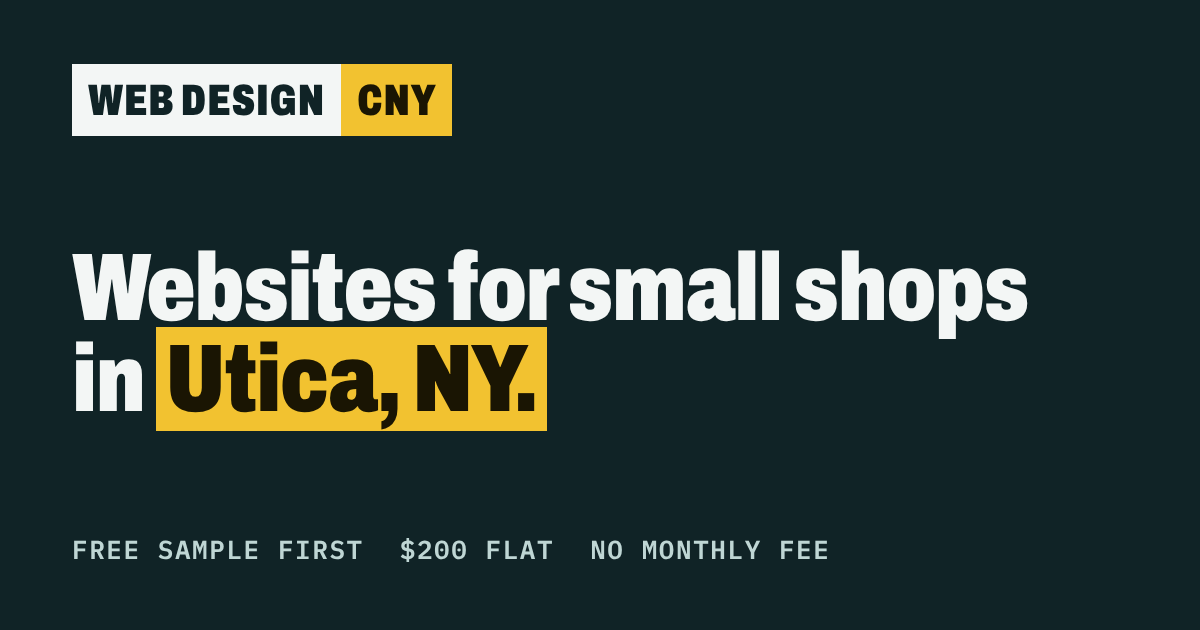
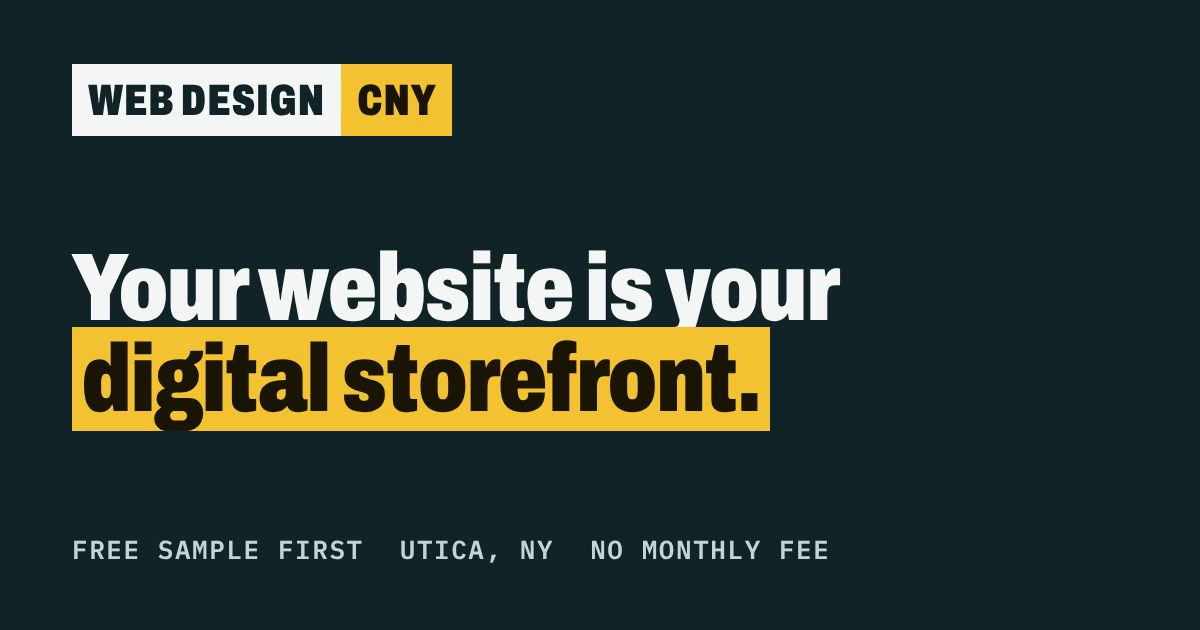
Lead with the slogan: Your website is your digital storefront
Claude-Session: https://claude.ai/code/session_01YCwx6CLGUANLD6uZCsd846

Changed region(s): [[0.0617, 0.3921, 0.8633, 0.6937], [0.3392, 0.8444, 0.4625, 0.9048]]

diff --git a/index.html b/index.html
@@ -3,14 +3,14 @@
 <head>
 <meta charset="utf-8">
 <meta name="viewport" content="width=device-width,initial-scale=1,viewport-fit=cover">
-<title>Web Design CNY · Friendly websites for small businesses in Utica, NY</title>
-<meta name="description" content="Friendly, affordable websites and graphic design for small shops and side hustles in Utica and Central New York. Free sample first, flat prices, no monthly fee.">
+<title>Web Design CNY · Your website is your digital storefront · Utica, NY</title>
+<meta name="description" content="Your website is your digital storefront. Friendly, affordable websites and graphic design for small shops and side hustles in Utica and Central New York. Free sample first, flat prices, no monthly fee.">
 <link rel="canonical" href="https://webdesigncny.com/">
 <meta property="og:type" content="website">
 <meta property="og:site_name" content="Web Design CNY">
 <meta property="og:url" content="https://webdesigncny.com/">
-<meta property="og:title" content="Web Design CNY · Friendly websites for small businesses in Utica, NY">
-<meta property="og:description" content="Friendly, affordable websites and graphic design for small shops and side hustles in Utica and Central New York. Free sample first, flat prices, no monthly fee.">
+<meta property="og:title" content="Web Design CNY · Your website is your digital storefront · Utica, NY">
+<meta property="og:description" content="Your website is your digital storefront. Friendly, affordable websites and graphic design for small shops and side hustles in Utica and Central New York. Free sample first, flat prices, no monthly fee.">
 <meta property="og:image" content="https://webdesigncny.com/og-image.png">
 <meta property="og:image:width" content="1200">
 <meta property="og:image:height" content="630">
@@ -48,8 +48,8 @@
     <div class="wrap">
       <div class="hero-copy">
         <span class="hand-note" data-i18n="home.hand">Hey neighbor!</span>
-        <h1 data-i18n="home.h1">Your shop deserves a <span class="accent">real website.</span></h1>
-        <p class="lede" data-i18n="home.lede">I'm David, from West Utica. I design bright, simple websites, flyers and cards for the delis, barbers, salons, auto shops and side hustles that make this town great. I'll make you a free sample first, so you see it before you spend a dollar.</p>
+        <h1 data-i18n="home.h1">Your website is your <span class="accent">digital storefront.</span></h1>
+        <p class="lede" data-i18n="home.lede">Before customers walk through your door, they check you out on their phone. I'm David, from West Utica, and I build bright, simple websites, flyers and cards that make your digital storefront as welcoming as the real one. I'll make you a free sample first, so you see it before you spend a dollar.</p>
         <div class="cta">
           <a class="btn btn-red" href="contact.html"><span data-i18n="c.cta">Get my free sample</span><svg width="20" height="20" viewBox="0 0 24 24" aria-hidden="true"><path d="M5 12h14M13 6l6 6-6 6" fill="none" stroke="currentColor" stroke-width="2.8" stroke-linecap="round" stroke-linejoin="round"/></svg></a>
           <a class="btn" href="services.html" data-i18n="home.seeprices">See prices</a>
@@ -65,7 +65,7 @@
           <img src="assets/showcase-960.webp" srcset="assets/showcase-960.webp 960w, assets/showcase.webp 1536w" sizes="(max-width: 1040px) 100vw, 640px" width="1536" height="1024" alt="Illustration of a Web Design CNY storefront at dusk, with giant phone screens showing example websites for a barbershop, deli, landscaper, auto shop, cleaning service and home improvement company" fetchpriority="high">
           <figcaption data-i18n="home.shot.cap">Example designs · not real businesses</figcaption>
         </figure>
-        <div class="sticker" style="top:-7%;left:-5%;--rot:-10deg;--dy:-160px;--spin:-40deg;--d:0s" aria-hidden="true"><svg width="118" height="118" viewBox="0 0 118 118"><path d="M59 4C28 4 4 27 4 56c0 27 20 44 38 44 10 0 12-8 9-14-4-8 1-15 10-15h18c20 0 35-12 35-31C114 20 90 4 59 4z" fill="#FFFDF8" stroke="#1D1A33" stroke-width="3"/><circle cx="34" cy="40" r="10" fill="#EE5236" stroke="#1D1A33" stroke-width="2.5"/><circle cx="60" cy="26" r="10" fill="#FFC23D" stroke="#1D1A33" stroke-width="2.5"/><circle cx="86" cy="36" r="10" fill="#0E8A7E" stroke="#1D1A33" stroke-width="2.5"/><circle cx="30" cy="70" r="10" fill="#6D4AA8" stroke="#1D1A33" stroke-width="2.5"/></svg></div><div class="sticker" style="top:-6%;right:-3%;--rot:8deg;--dy:-200px;--spin:90deg;--d:.7s" aria-hidden="true"><svg width="58" height="58" viewBox="0 0 58 58"><path d="M29 3l6 18 19 1-15 12 5 19-15-11-16 11 6-19L4 22l19-1z" fill="#FFC23D" stroke="#1D1A33" stroke-width="3" stroke-linejoin="round"/></svg></div><div class="sticker" style="bottom:-4%;right:4%;--rot:-12deg;--dy:-240px;--spin:-30deg;--d:1.3s" aria-hidden="true"><svg width="56" height="64" viewBox="0 0 56 64"><path d="M6 4l42 26-18 4 10 20-9 5-10-20-15 12z" fill="#EE5236" stroke="#1D1A33" stroke-width="3" stroke-linejoin="round"/></svg></div>
+        <div class="sticker" style="top:-7%;left:-5%;--rot:-10deg;--dy:-160px;--spin:-40deg;--d:0s" aria-hidden="true"><svg width="118" height="118" viewBox="0 0 118 118"><path d="M59 4C28 4 4 27 4 56c0 27 20 44 38 44 10 0 12-8 9-14-4-8 1-15 10-15h18c20 0 35-12 35-31C114 20 90 4 59 4z" fill="#FFFDF8" stroke="#1D1A33" stroke-width="3"/><circle cx="34" cy="40" r="10" fill="#EE5236" stroke="#1D1A33" stroke-width="2.5"/><circle cx="60" cy="26" r="10" fill="#FFC23D" stroke="#1D1A33" stroke-width="2.5"/><circle cx="86" cy="36" r="10" fill="#0E8A7E" stroke="#1D1A33" stroke-width="2.5"/><circle cx="30" cy="70" r="10" fill="#6D4AA8" stroke="#1D1A33" stroke-width="2.5"/></svg></div><div class="sticker" style="top:-9%;right:-4%;--rot:8deg;--dy:-200px;--spin:90deg;--d:.7s" aria-hidden="true"><svg width="120" height="104" viewBox="0 0 120 104"><path d="M60 4L22 44M60 4l38 40" stroke="#1D1A33" stroke-width="3" fill="none"/><circle cx="60" cy="6" r="5" fill="#FFC23D" stroke="#1D1A33" stroke-width="2.5"/><rect x="6" y="40" width="108" height="58" rx="12" fill="#0E8A7E" stroke="#1D1A33" stroke-width="3"/><text x="60" y="80" text-anchor="middle" font-family="Bricolage Grotesque, Arial, sans-serif" font-weight="800" font-size="30" fill="#fff" letter-spacing="2">OPEN</text></svg></div><div class="sticker" style="bottom:-4%;right:4%;--rot:-12deg;--dy:-240px;--spin:-30deg;--d:1.3s" aria-hidden="true"><svg width="56" height="64" viewBox="0 0 56 64"><path d="M6 4l42 26-18 4 10 20-9 5-10-20-15 12z" fill="#EE5236" stroke="#1D1A33" stroke-width="3" stroke-linejoin="round"/></svg></div>
       </div>
     </div>
   </section>
@@ -212,7 +212,7 @@
   <section class="bigcta band-sun edge-top">
     <div class="wrap reveal">
       <span class="hand" style="color:var(--ink)" data-i18n="cta.hand">no strings attached</span>
-      <h2 data-i18n="cta.h">Let's get your shop online.</h2>
+      <h2 data-i18n="cta.h">Let's open your digital storefront.</h2>
       <p data-i18n="cta.p">Tell me your business name. I'll make a free sample homepage and send it to you, usually within a couple of days.</p>
       <div class="cta" style="justify-content:center"><a class="btn btn-red" href="contact.html"><span data-i18n="c.cta">Get my free sample</span><svg width="20" height="20" viewBox="0 0 24 24" aria-hidden="true"><path d="M5 12h14M13 6l6 6-6 6" fill="none" stroke="currentColor" stroke-width="2.8" stroke-linecap="round" stroke-linejoin="round"/></svg></a><a class="btn" href="mailto:david@webdesigncny.com?subject=Free%20sample%20for%20my%20business">david@webdesigncny.com</a></div>
     </div>

diff --git a/assets/i18n.js b/assets/i18n.js
@@ -12,8 +12,8 @@ window.WDC_I18N = {
 "n.contact": "Contacto",
 "c.hdrcta": "Muestra gratis",
 "home.hand": "¡Hola, vecino!",
-"home.h1": "Tu negocio merece un <span class=\"accent\">sitio web de verdad.</span>",
-"home.lede": "Soy David, de West Utica. Diseño sitios web, volantes y tarjetas sencillos y llamativos para los delis, barberías, salones, talleres y emprendedores que hacen grande a esta ciudad. Primero te hago una muestra gratis, para que la veas antes de gastar un dólar.",
+"home.h1": "Tu sitio web es tu <span class=\"accent\">tienda digital.</span>",
+"home.lede": "Antes de entrar por tu puerta, los clientes te buscan en el celular. Soy David, de West Utica, y hago sitios web, volantes y tarjetas sencillos y llamativos para que tu tienda digital sea tan acogedora como la de verdad. Primero te hago una muestra gratis, para que la veas antes de gastar un dólar.",
 "c.cta": "Quiero mi muestra gratis",
 "home.seeprices": "Ver precios",
 "as.1": "Muestra gratis",
@@ -116,7 +116,7 @@ window.WDC_I18N = {
 "crew.p": "Vivo en West Utica y camino estas calles todos los días con mis dos perros, las mascotas oficiales de Web Design CNY. Pasamos por muchos negocios locales buenísimos que la gente no encuentra en internet. Quiero arreglar eso, a un precio que un negocio pequeño pueda pagar.",
 "crew.btn": "Más sobre nosotros",
 "cta.hand": "sin compromiso",
-"cta.h": "Pongamos tu negocio en internet.",
+"cta.h": "Abramos tu tienda digital.",
 "cta.p": "Dime el nombre de tu negocio. Te hago una página de muestra gratis y te la envío, normalmente en un par de días.",
 "f.areas": "Sitios web y diseño gráfico para pequeños negocios y emprendedores en Utica, West Utica, East Utica, North Utica, New Hartford, Whitesboro, Yorkville, New York Mills, Rome y todo el condado de Oneida.",
 "f.pages": "Páginas",

diff --git a/services.html b/services.html
@@ -148,7 +148,7 @@
   <section class="bigcta band-sun edge-top">
     <div class="wrap reveal">
       <span class="hand" style="color:var(--ink)" data-i18n="cta.hand">no strings attached</span>
-      <h2 data-i18n="cta.h">Let's get your shop online.</h2>
+      <h2 data-i18n="cta.h">Let's open your digital storefront.</h2>
       <p data-i18n="cta.p">Tell me your business name. I'll make a free sample homepage and send it to you, usually within a couple of days.</p>
       <div class="cta" style="justify-content:center"><a class="btn btn-red" href="contact.html"><span data-i18n="c.cta">Get my free sample</span><svg width="20" height="20" viewBox="0 0 24 24" aria-hidden="true"><path d="M5 12h14M13 6l6 6-6 6" fill="none" stroke="currentColor" stroke-width="2.8" stroke-linecap="round" stroke-linejoin="round"/></svg></a><a class="btn" href="mailto:david@webdesigncny.com?subject=Free%20sample%20for%20my%20business">david@webdesigncny.com</a></div>
     </div>

diff --git a/about.html b/about.html
@@ -93,7 +93,7 @@
   <section class="bigcta band-sun edge-top">
     <div class="wrap reveal">
       <span class="hand" style="color:var(--ink)" data-i18n="cta.hand">no strings attached</span>
-      <h2 data-i18n="cta.h">Let's get your shop online.</h2>
+      <h2 data-i18n="cta.h">Let's open your digital storefront.</h2>
       <p data-i18n="cta.p">Tell me your business name. I'll make a free sample homepage and send it to you, usually within a couple of days.</p>
       <div class="cta" style="justify-content:center"><a class="btn btn-red" href="contact.html"><span data-i18n="c.cta">Get my free sample</span><svg width="20" height="20" viewBox="0 0 24 24" aria-hidden="true"><path d="M5 12h14M13 6l6 6-6 6" fill="none" stroke="currentColor" stroke-width="2.8" stroke-linecap="round" stroke-linejoin="round"/></svg></a><a class="btn" href="mailto:david@webdesigncny.com?subject=Free%20sample%20for%20my%20business">david@webdesigncny.com</a></div>
     </div>

diff --git a/_build/build.py b/_build/build.py
@@ -110,7 +110,7 @@ def bigcta():
   <section class="bigcta band-sun edge-top">
     <div class="wrap reveal">
       <span class="hand" style="color:var(--ink)" {tk("cta.hand","no strings attached","sin compromiso")}>no strings attached</span>
-      <h2 {tk("cta.h","Let's get your shop online.","Pongamos tu negocio en internet.")}>Let's get your shop online.</h2>
+      <h2 {tk("cta.h","Let's open your digital storefront.","Abramos tu tienda digital.")}>Let's open your digital storefront.</h2>
       <p {tk("cta.p","Tell me your business name. I'll make a free sample homepage and send it to you, usually within a couple of days.","Dime el nombre de tu negocio. Te hago una página de muestra gratis y te la envío, normalmente en un par de días.")}>Tell me your business name. I'll make a free sample homepage and send it to you, usually within a couple of days.</p>
       <div class="cta" style="justify-content:center"><a class="btn btn-red" href="contact.html"><span {tk("c.cta","Get my free sample","Quiero mi muestra gratis")}>Get my free sample</span>{ARROW}</a><a class="btn" href="{MAIL}">david@webdesigncny.com</a></div>
     </div>
@@ -231,15 +231,15 @@ def home():
           <p {tk(k+".p",p_en,p_es)}>{p_en}</p>
           <div class="from"><span {tk(k+".f",price_en,price_es)}>{price_en}</span><a href="services.html" {tk("home.svc.more","See prices","Ver precios")}>See prices</a></div>
         </div>'''
-    return head("index", "Web Design CNY · Friendly websites for small businesses in Utica, NY",
-                "Friendly, affordable websites and graphic design for small shops and side hustles in Utica and Central New York. Free sample first, flat prices, no monthly fee.",
+    return head("index", "Web Design CNY · Your website is your digital storefront · Utica, NY",
+                "Your website is your digital storefront. Friendly, affordable websites and graphic design for small shops and side hustles in Utica and Central New York. Free sample first, flat prices, no monthly fee.",
                 '<script type="application/ld+json">' + json.dumps(SCHEMA) + '</script>') + header("index") + f'''
   <section class="hero">
     <div class="wrap">
       <div class="hero-copy">
         <span class="hand-note" {tk("home.hand","Hey neighbor!","¡Hola, vecino!")}>Hey neighbor!</span>
-        <h1 {tk("home.h1","Your shop deserves a <span class=\"accent\">real website.</span>","Tu negocio merece un <span class=\"accent\">sitio web de verdad.</span>")}>Your shop deserves a <span class="accent">real website.</span></h1>
-        <p class="lede" {tk("home.lede","I'm David, from West Utica. I design bright, simple websites, flyers and cards for the delis, barbers, salons, auto shops and side hustles that make this town great. I'll make you a free sample first, so you see it before you spend a dollar.","Soy David, de West Utica. Diseño sitios web, volantes y tarjetas sencillos y llamativos para los delis, barberías, salones, talleres y emprendedores que hacen grande a esta ciudad. Primero te hago una muestra gratis, para que la veas antes de gastar un dólar.")}>I'm David, from West Utica. I design bright, simple websites, flyers and cards for the delis, barbers, salons, auto shops and side hustles that make this town great. I'll make you a free sample first, so you see it before you spend a dollar.</p>
+        <h1 {tk("home.h1","Your website is your <span class=\"accent\">digital storefront.</span>","Tu sitio web es tu <span class=\"accent\">tienda digital.</span>")}>Your website is your <span class="accent">digital storefront.</span></h1>
+        <p class="lede" {tk("home.lede","Before customers walk through your door, they check you out on their phone. I'm David, from West Utica, and I build bright, simple websites, flyers and cards that make your digital storefront as welcoming as the real one. I'll make you a free sample first, so you see it before you spend a dollar.","Antes de entrar por tu puerta, los clientes te buscan en el celular. Soy David, de West Utica, y hago sitios web, volantes y tarjetas sencillos y llamativos para que tu tienda digital sea tan acogedora como la de verdad. Primero te hago una muestra gratis, para que la veas antes de gastar un dólar.")}>Before customers walk through your door, they check you out on their phone. I'm David, from West Utica, and I build bright, simple websites, flyers and cards that make your digital storefront as welcoming as the real one. I'll make you a free sample first, so you see it before you spend a dollar.</p>
         <div class="cta">
           <a class="btn btn-red" href="contact.html"><span {tk("c.cta","Get my free sample","Quiero mi muestra gratis")}>Get my free sample</span>{ARROW}</a>
           <a class="btn" href="services.html" {tk("home.seeprices","See prices","Ver precios")}>See prices</a>

diff --git a/_build/art.py b/_build/art.py
@@ -75,7 +75,7 @@ def sticker(name, style):
 
 HERO_STICKERS = "".join([
     sticker("palette", "top:-7%;left:-5%;--rot:-10deg;--dy:-160px;--spin:-40deg;--d:0s"),
-    sticker("star",    "top:-6%;right:-3%;--rot:8deg;--dy:-200px;--spin:90deg;--d:.7s"),
+    sticker("open",    "top:-9%;right:-4%;--rot:8deg;--dy:-200px;--spin:90deg;--d:.7s"),
     sticker("cursor",  "bottom:-4%;right:4%;--rot:-12deg;--dy:-240px;--spin:-30deg;--d:1.3s"),
 ])
 
